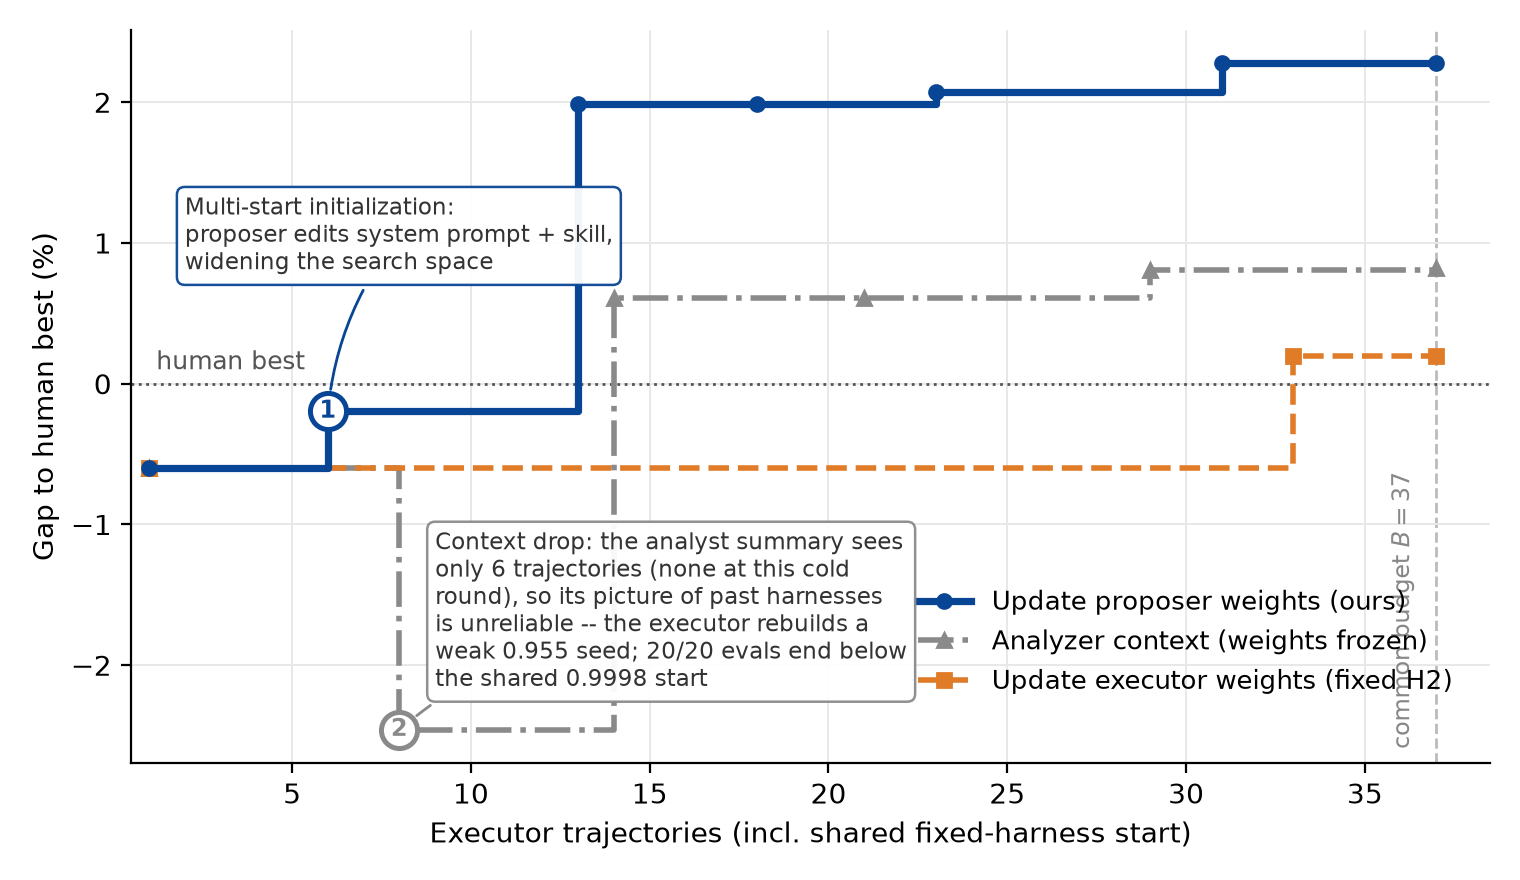
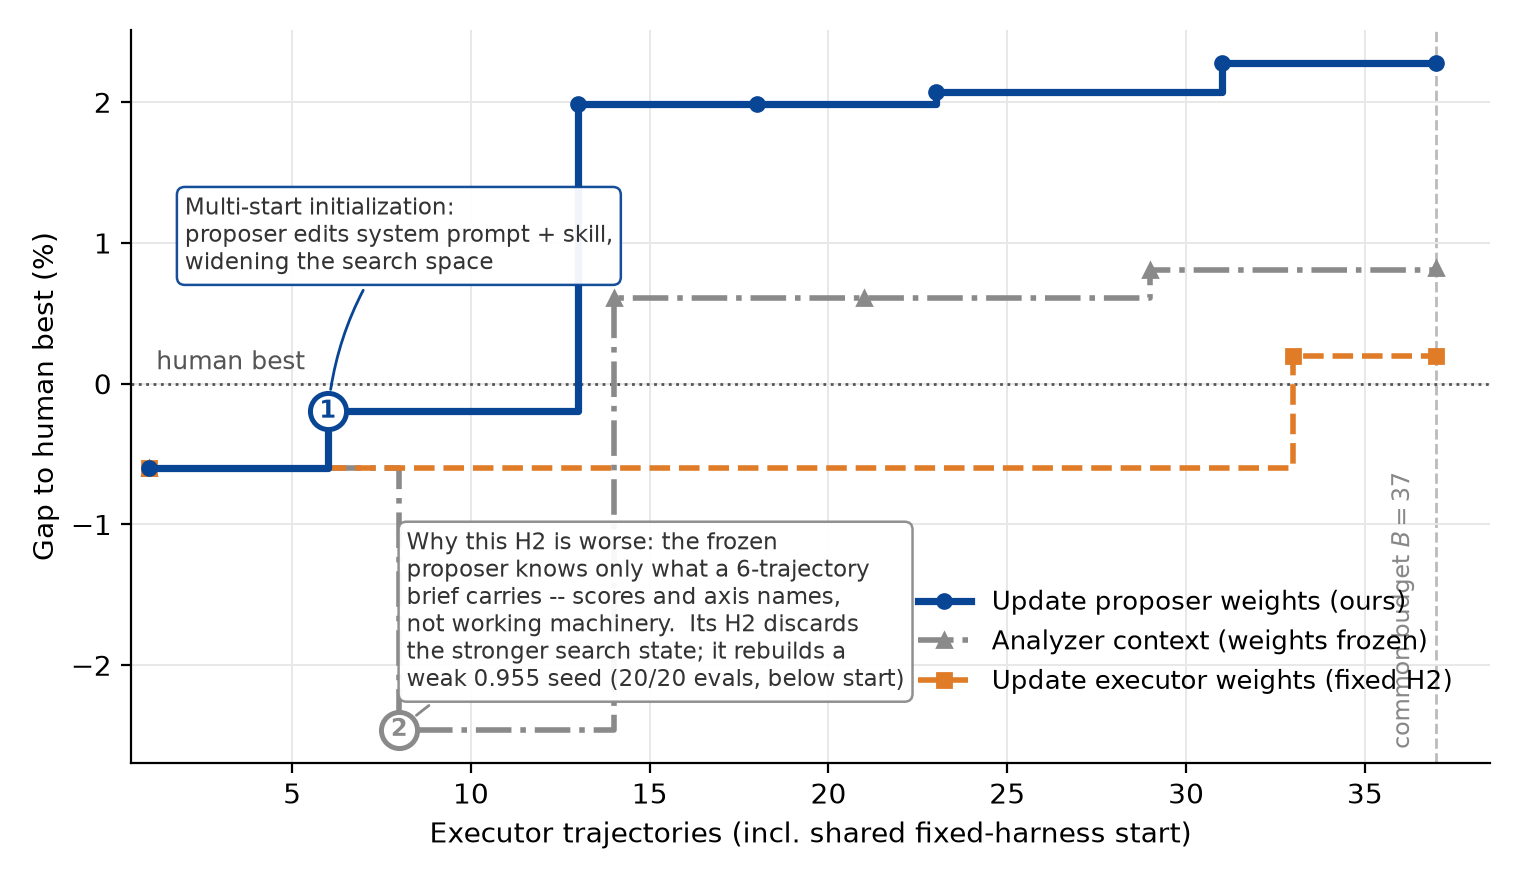
case study node 2: state the H2 contrast directly -- a brief carries scores and axis names, not machinery; the frozen proposer's H2 discards the stronger search state

Changed region(s): [[0.2474, 0.583, 0.6184, 0.7977]]

diff --git a/scripts/draw_ac2_case_study.py b/scripts/draw_ac2_case_study.py
@@ -51,10 +51,10 @@ NODES = [
      "widening the search space",
      (2.0, 1.05)),
     (8, "context", "2",
-     "Context drop: the analyst summary sees\nonly 6 trajectories (none at this cold\n"
-     "round), so its picture of past harnesses\nis unreliable -- the executor rebuilds a\n"
-     "weak 0.955 seed; 20/20 evals end below\nthe shared 0.9998 start",
-     (9.0, -1.62)),
+     "Why this H2 is worse: the frozen\nproposer knows only what a 6-trajectory\n"
+     "brief carries -- scores and axis names,\nnot working machinery.  Its H2 discards\n"
+     "the stronger search state; it rebuilds a\nweak 0.955 seed (20/20 evals, below start)",
+     (8.2, -1.62)),
 ]
 ROUTE_STYLE = {k: st for k, _, st in ROUTES}
 for x, route, num, text, txy in NODES:
